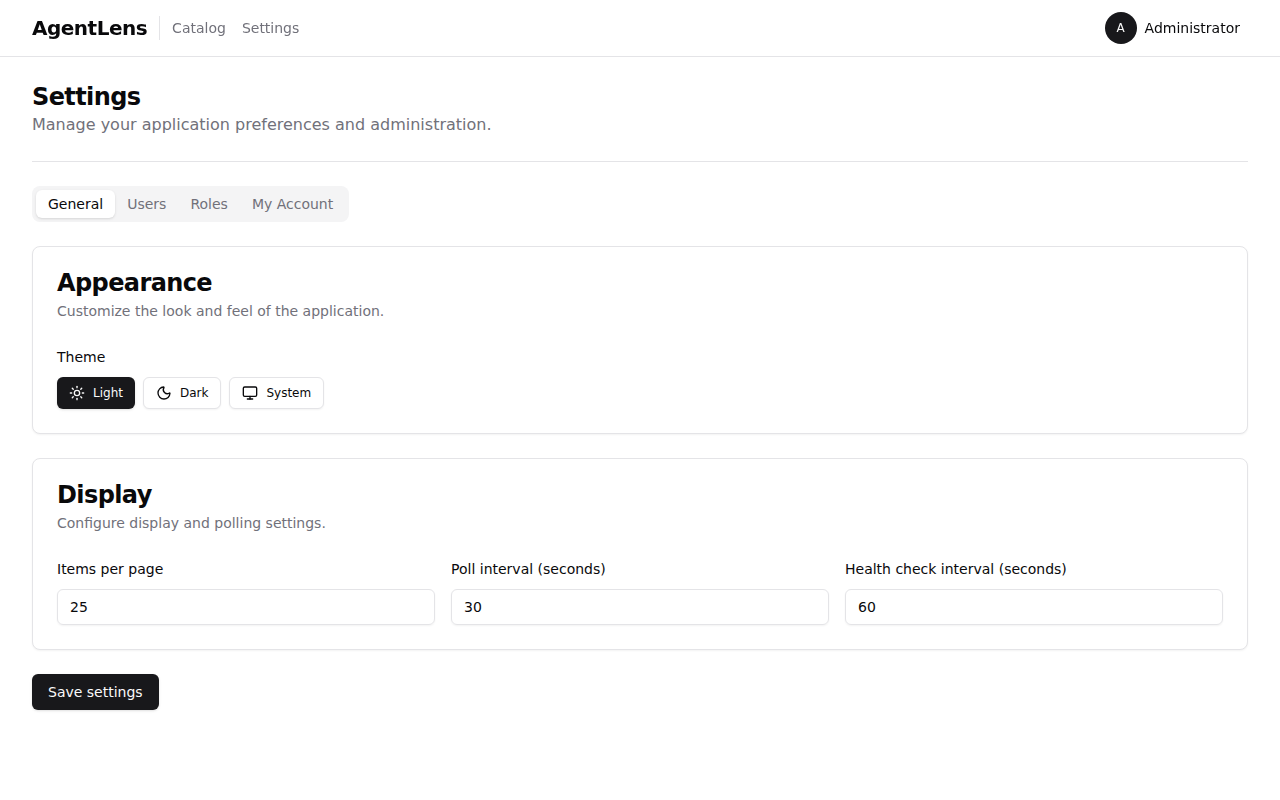
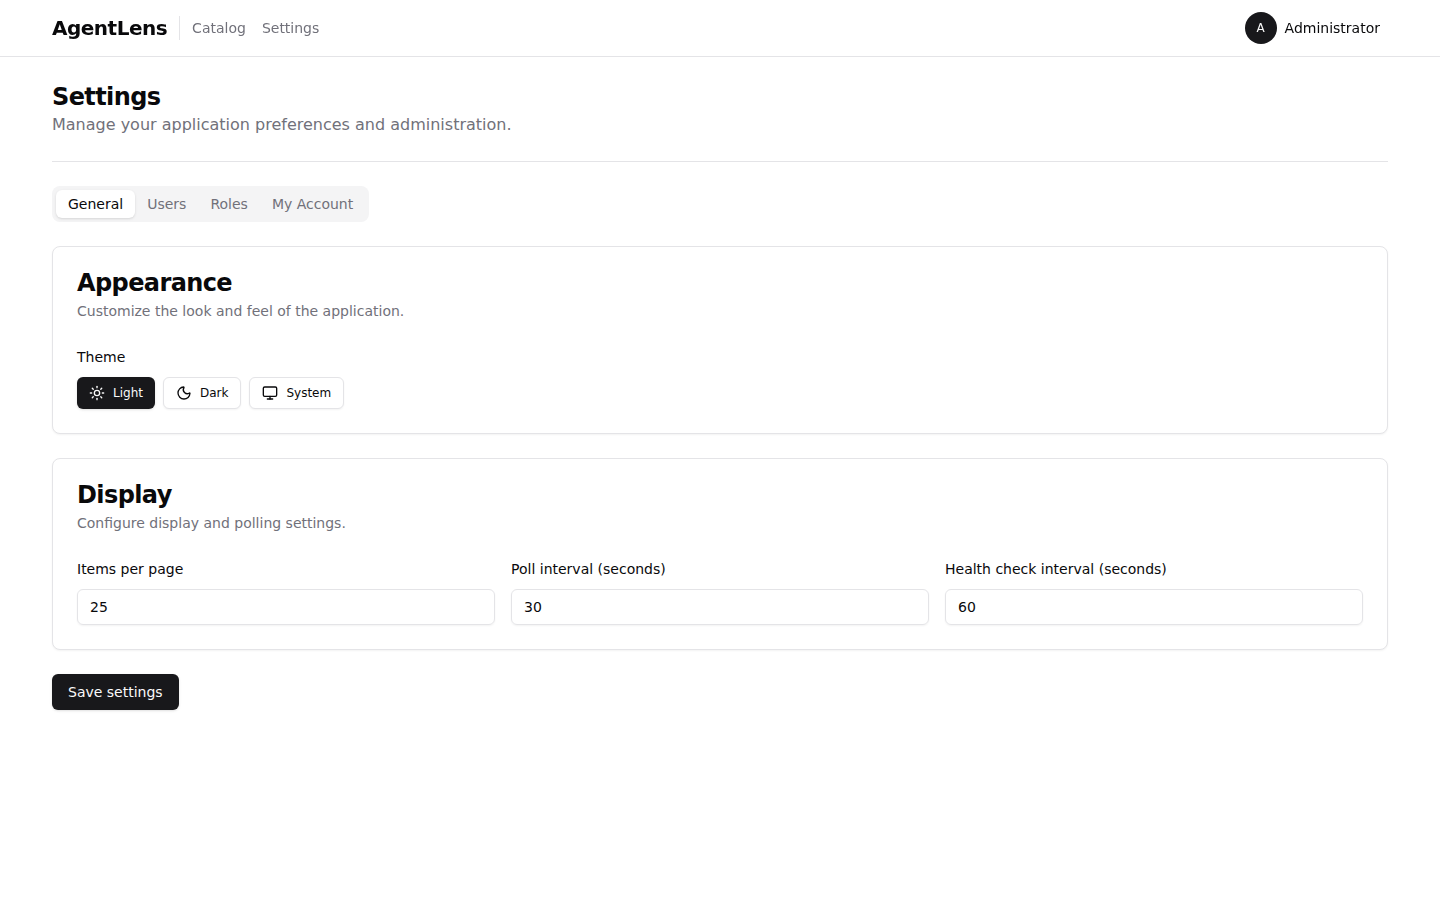
docs: run screenshot generator - add 27 fresh PNGs, remove 16 stale images
Agent-Logs-Url: https://github.com/PawelHaracz/Agentlens/sessions/02f80856-5dc0-430e-a3d9-0e10003170ce

diff --git a/e2e/tests/docs-screenshots.spec.ts b/e2e/tests/docs-screenshots.spec.ts
@@ -14,6 +14,7 @@
 
 import { test } from '@playwright/test';
 import path from 'path';
+import { fileURLToPath } from 'url';
 import {
   loginViaUI,
   loginViaAPI,
@@ -25,6 +26,9 @@ import {
   adminPassword,
   ADMIN_USER,
 } from './helpers';
+
+const __filename = fileURLToPath(import.meta.url);
+const __dirname = path.dirname(__filename);
 
 const DOCS_IMAGES = path.resolve(__dirname, '../../docs/images');
 

diff --git a/docs/end-user-guide.md b/docs/end-user-guide.md
@@ -275,7 +275,10 @@ Click **Register Agent** to open the registration dialog. Three methods are avai
 *Preview step — review the parsed card before saving.*
 
 5. Review the preview and click **Register Agent** to save. The dialog closes and the catalog
-   refreshes.
+   refreshes with the new entry.
+
+![Catalog updated after a successful agent registration](images/register-success-toast.png)
+*After registration the dialog closes and the catalog table shows the new entry.*
 
 ### Upload a JSON File
 
